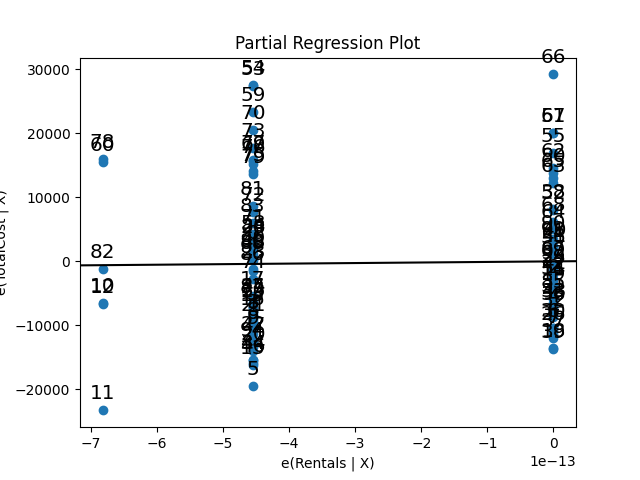
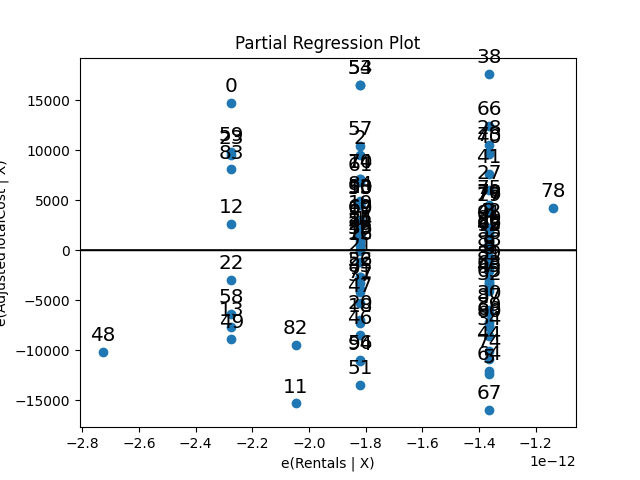
stuff?

diff --git a/app.py b/app.py
@@ -3,8 +3,8 @@ import statsmodels.api as sm
 import statsmodels.formula.api as smf
 
 df = pd.read_csv('./test.csv')
-model = smf.ols(formula = 'TotalCost ~ Rentals', data = df).fit()
+model = smf.ols(formula = 'AdjustedTotalCost ~ Rentals + D11 + D12 + D13 + D14 + D15 + D16 + D17 + HDD + CDD', data = df).fit()
 print(model.summary())
 
-img = sm.graphics.plot_partregress('TotalCost', 'Rentals', ['Rentals'], data=df)
+img = sm.graphics.plot_partregress('AdjustedTotalCost', 'Rentals', ['Rentals', 'D11', 'D12', 'D13', 'D14', 'D15', 'D16', 'D17', 'HDD', 'CDD'], data=df)
 img.savefig('test.png')

diff --git a/foo.py b/foo.py
@@ -1,0 +1,10 @@
+import pandas as pd
+import statsmodels.api as sm
+import statsmodels.formula.api as smf
+
+df = pd.read_csv('./test.csv')
+model = smf.ols(formula = 'AdjustedTotalCost ~ Rentals + CDD', data = df).fit()
+print(model.summary())
+
+img = sm.graphics.plot_partregress('AdjustedTotalCost', 'Rentals', ['Rentals', 'CDD'], data=df)
+img.savefig('test.png')
